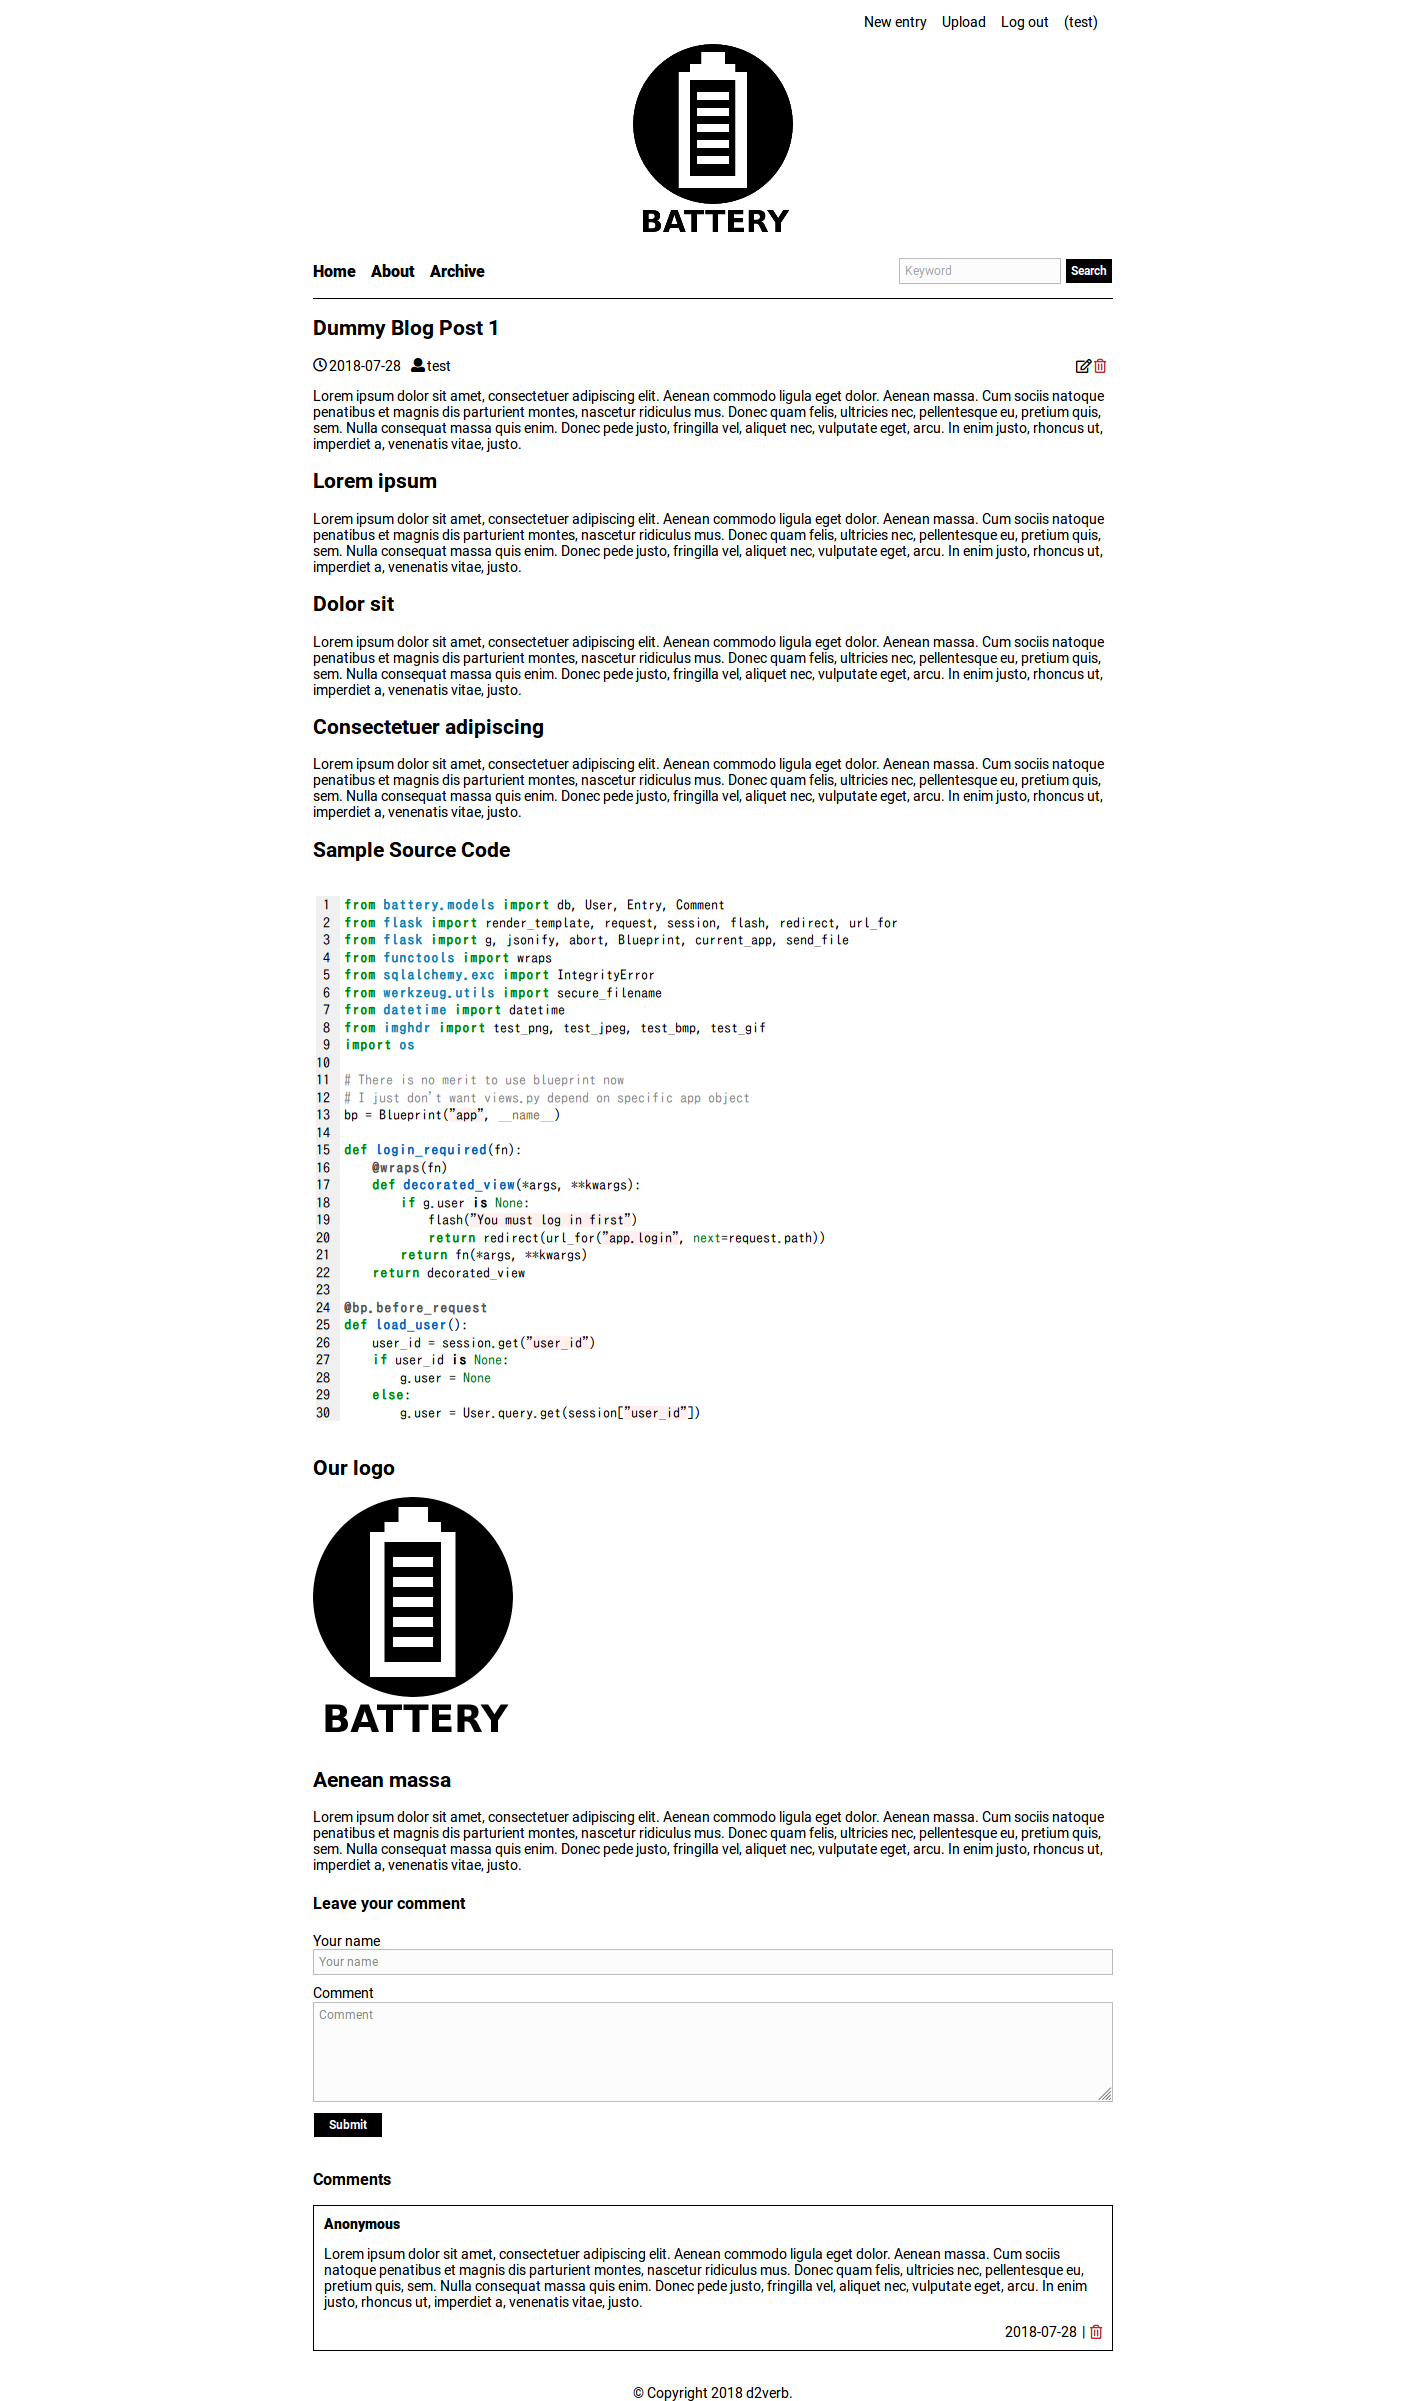
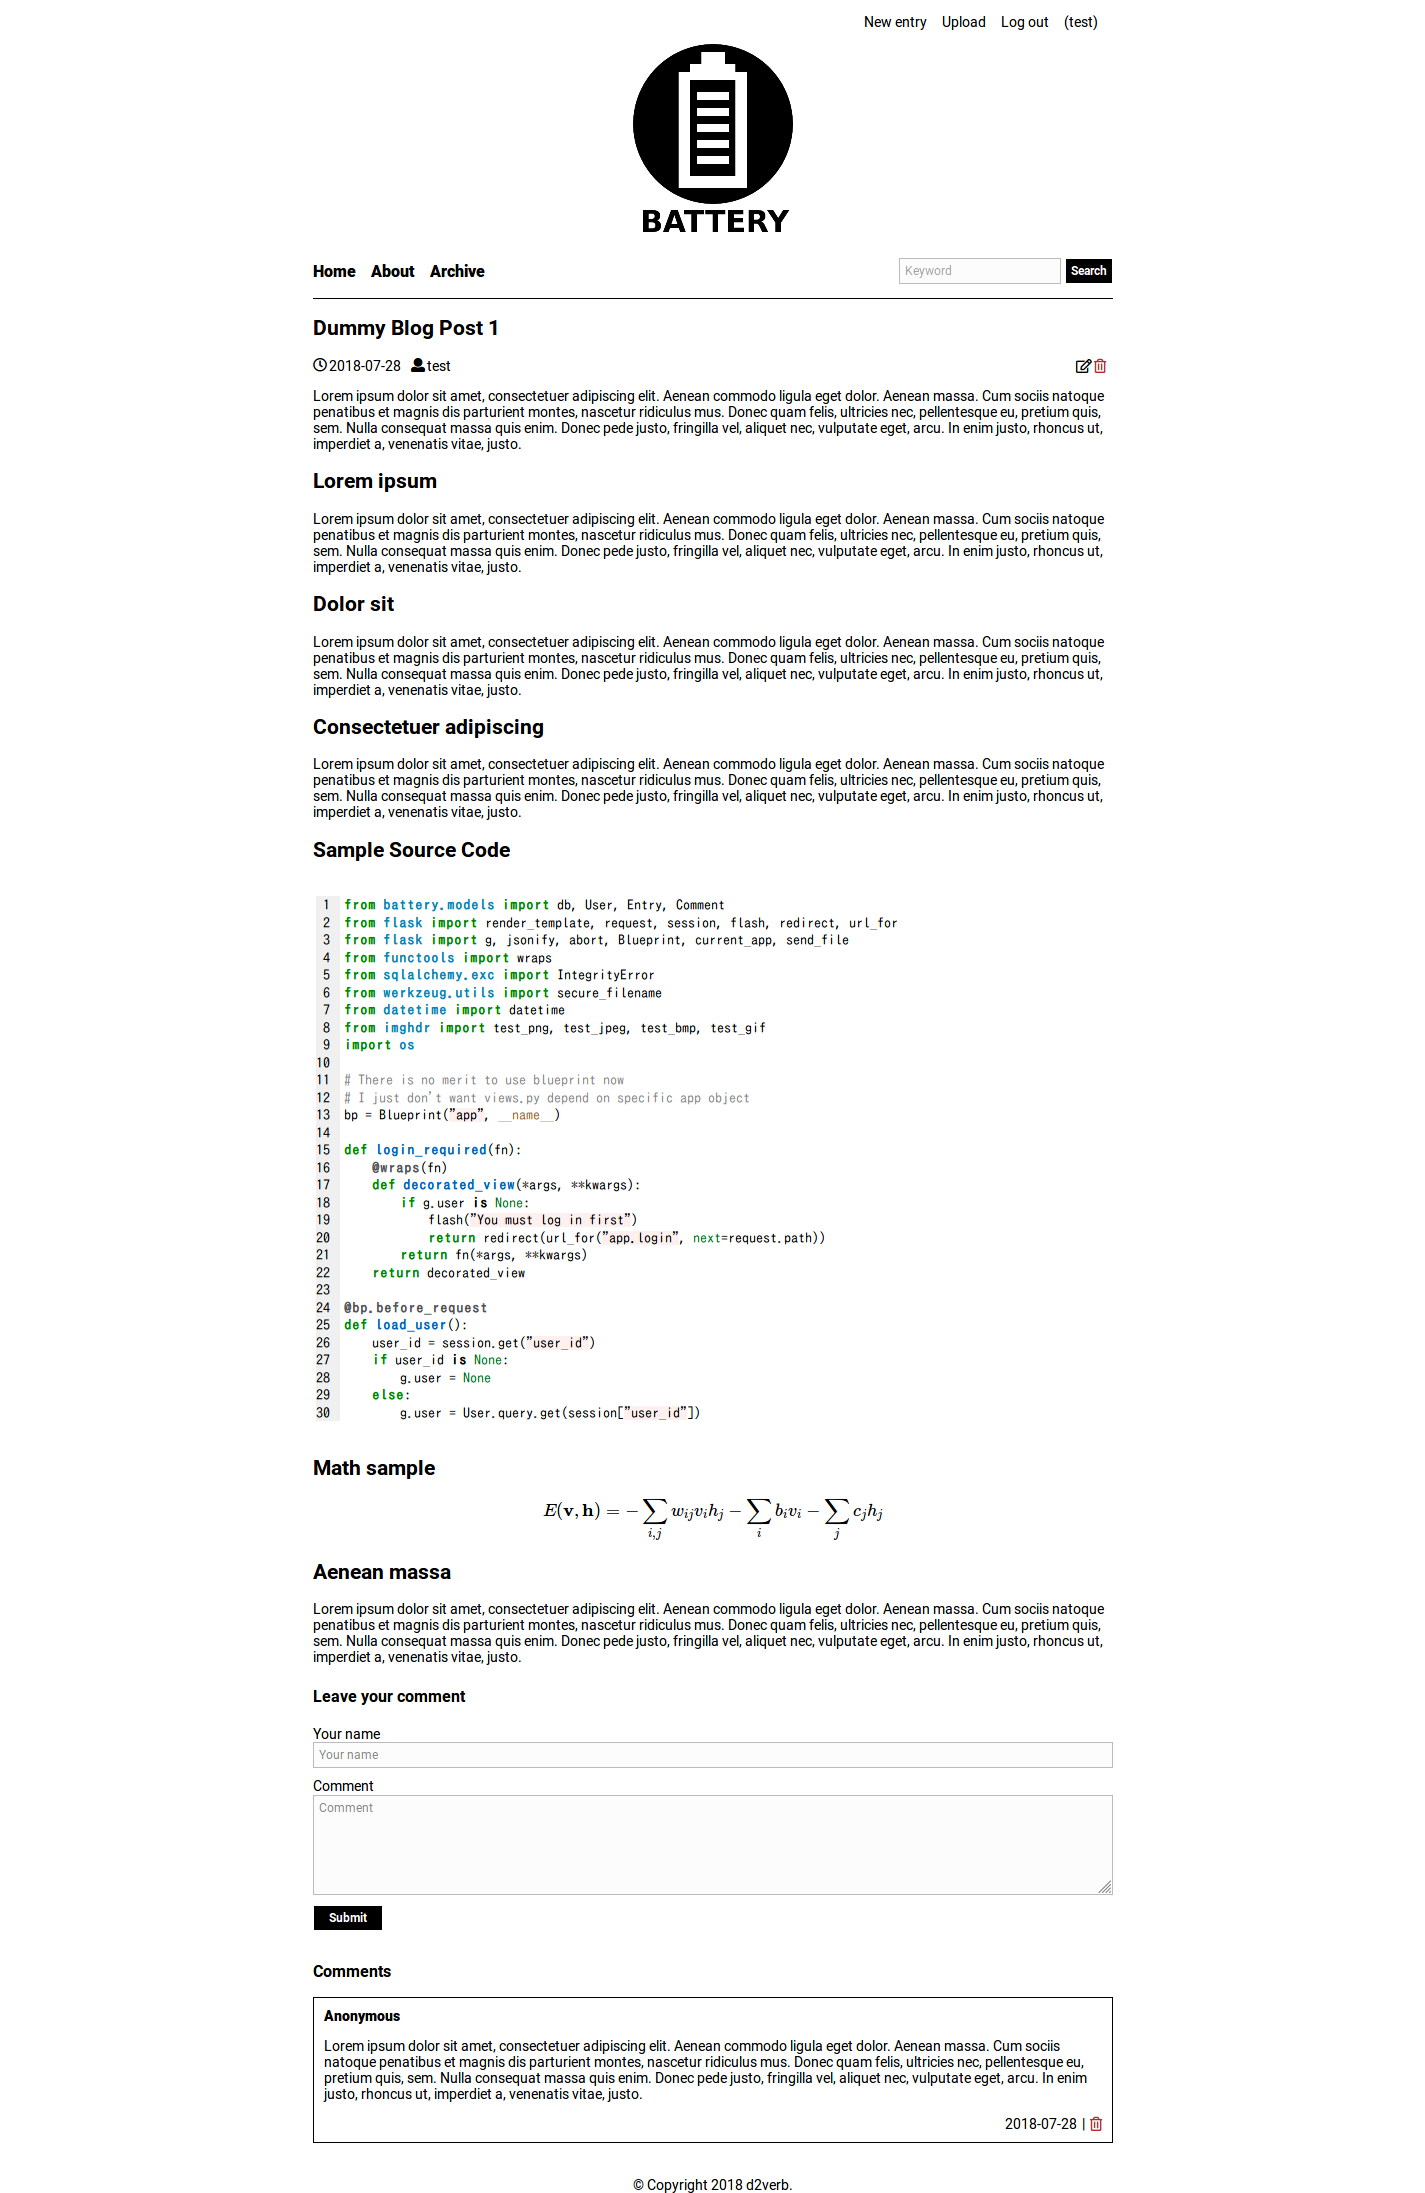
Use MathJax to render Tex Statement

diff --git a/battery/templates/meta.html b/battery/templates/meta.html
@@ -6,12 +6,12 @@
     <link href="https://use.fontawesome.com/releases/v5.0.6/css/all.css" rel="stylesheet">
     <link href='https://fonts.googleapis.com/css?family=Roboto:500,900,100,300,700,400' rel='stylesheet' type='text/css'>
     <link rel=stylesheet type=text/css href="{{ url_for('static', filename='css/style.css') }}">
+    <script src='https://cdnjs.cloudflare.com/ajax/libs/mathjax/2.7.5/MathJax.js?config=TeX-MML-AM_CHTML' async></script>
   </head>
   <body>
     <div class=container>
       {% block container %} {% endblock %}
     </div>
-    <script src="https://cdnjs.cloudflare.com/ajax/libs/markdown-it/8.4.1/markdown-it.js"></script>
     <script text="text/javascript" src="{{ url_for('static', filename='js/main.js') }}"></script>
   </body>
 </html>
